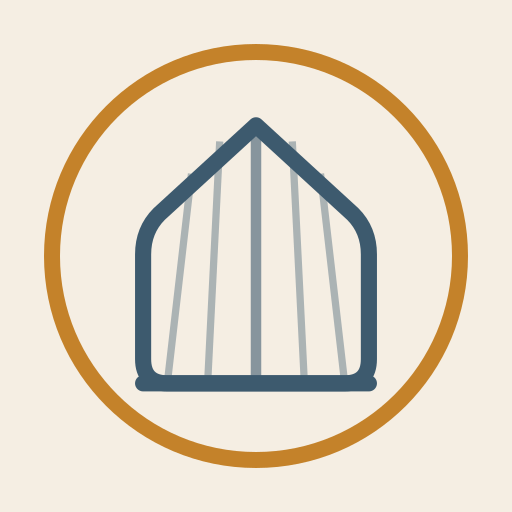
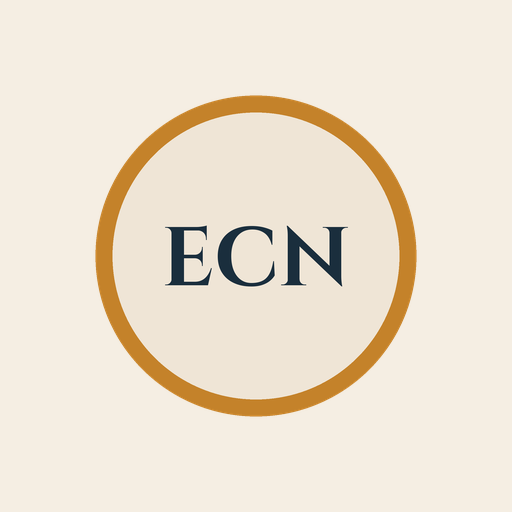
feat(marca): el icono de identidad es el sello circular ECN
El favicon y los iconos de app llevaban la concha del logo, que a 16 px se
volvía una mancha. Ahora usan el sello que la plataforma ya mostraba en el
sidebar: círculo de fondo piedra-suave, filete ocre y las iniciales en Cinzel
sobre noche. Las letras del SVG van como trazos y no como texto, para que el
favicon no dependa de que el navegador tenga la fuente.

El sello del sidebar y el del menú móvil pasan de EC a ECN, que es como se
nombra la marca en el resto de la casa.

Changed region(s): [[0.0625, 0.0625, 0.9375, 0.9375]]

diff --git a/components/layout/mobile-menu.tsx b/components/layout/mobile-menu.tsx
@@ -32,7 +32,7 @@ export function MobileMenu({ role, caminos }: { role: string; caminos: NavCamino
           <div className="px-5 py-4 flex items-center justify-between border-b">
             <Link href="/" className="flex items-center gap-2">
               <div className="h-9 w-9 rounded-full border-2 border-ocre bg-piedra-suave flex items-center justify-center">
-                <span className="font-display text-sm text-noche">EC</span>
+                <span className="font-display text-xs tracking-wide text-noche">ECN</span>
               </div>
               <div>
                 <div className="text-sm font-display text-noche leading-tight">El Camino</div>

diff --git a/components/layout/sidebar.tsx b/components/layout/sidebar.tsx
@@ -10,7 +10,7 @@ export default function Sidebar({ role, caminos }: { role: string; caminos: NavC
       <div className="px-5 py-5">
         <Link href="/" className="flex items-center gap-2">
           <div className="h-10 w-10 rounded-full border-2 border-ocre bg-piedra-suave flex items-center justify-center">
-            <span className="font-display text-noche">EC</span>
+            <span className="font-display text-sm tracking-wide text-noche">ECN</span>
           </div>
           <div>
             <div className="text-sm font-display text-noche leading-tight">El Camino</div>
